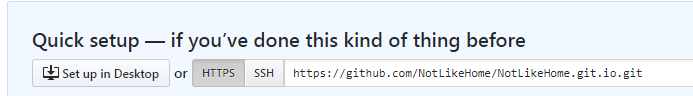
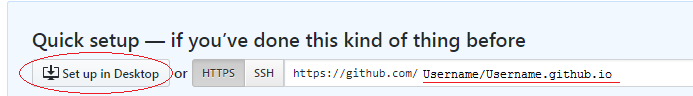
Setup updates

diff --git a/DevSetup2.html b/DevSetup2.html
@@ -6,26 +6,29 @@
      
 </head>
 <body>
-       <object name="Top" type="text/html" data="Nav.html" style="width: 100%"></object>
+    <object name="Top" type="text/html" data="Nav.html" style="width: 100%"></object>
     <h1 style='margin: 25px;'>Set Up</h1>
+        <div style='margin: 30px;'>
     
-    
-        <p>Next, we'll copy some files "starter" files.  <span class="todo">Add more instructions</span></p>
-    <p>Let's edit your home page, called <strong>Index.html</strong>.
-    <div > <img src="code1.png" /></div>
-    <div><br/>Change the green text inside the header to whatever you like, then save the file.<br/><br/></div>
-    <div>In Komodo, you can preview your file by clicking the Preview icon [add image]</div>
-    <div><p>Now, let's switch over to the Git Desktop and publish your web page to the internet:</p>
-        <ul>
-            <li>Enter a 'Summary' for your change, such as "Header text added"</li>
-            <li>Click Commit to master [add pic]</li>
-            <li>Click Push origin [add pic]</li>
-        </ul>
-    </div>
-    <div><p>Give it a minute, and...your page is now out there on the web!</p></div>
-    <div><br/><br/><a href='Dev0.html'>Next: Let's add some fields</a></div>
-    
-    
+            <p>10.  Next, we'll copy some files "starter" files.  <span class="todo">For now, please copy the
+            files I sent you in email into the folder that your repository is pointing at.</span></p>
+            <p>11.  Now, let's open Komodo Edit.  There should be an icon on your desktop.  We'll use this as a handy
+            editor, but you could use any editor.</p>
+            <p>12.  Let's edit your home page, called <strong>Index.html</strong>.  Open the file in Komodo.
+            <div > <img src="code1.png" /></div>
+            <div><br/>13.  Change the green text inside the header to whatever you like, then save the file.<br/><br/></div>
+            <div>14.  In Komodo, you can preview your file by clicking the Preview icon [add image]</div>
+            <div><p>15.  Now, let's switch over to the GitHub Desktop and publish your web page to the internet:</p>
+                <ul>
+                    <li>Enter a 'Summary' for your change, such as "Header text added"</li>
+                    <li>Click Commit to master [add pic]</li>
+                    <li>Click Push origin [add pic]</li>
+                </ul>
+            </div>
+            <div><p>Give it a minute, and...your page is now out there on the web!</p></div>
+            <div><br/><br/><a href='DevSetUp.html'>Previous: Set up our Account</a></div>
+            
+
     
     
     

diff --git a/DevSetUp.html b/DevSetUp.html
@@ -8,7 +8,8 @@
 <body>
        <object name="Top" type="text/html" data="Nav.html" style="width: 100%"></object>
     <h1 style='margin: 25px;'>Set Up</h1>
-    <div style='margin: 25px;'>
+    <div style='margin: 30px;'>
+    <p>We'll be using two tools that are already loaded on your laptop: GitHub Desktop, and Komodo Edit.  </p>
     <p>First, we'll create an account with GitHub.  (Unless you already have one.)  Note: you will need
         an email address that you can access to confirm your account.)
        Git is a cloud repository for you code, that will also let you publish a simple website for free.</p>
@@ -24,29 +25,22 @@
         that GitHub sends you.</p>
     <p>5.  Now that we have an account, we'll need to set it up.  Go to GitHub.com, and sign in.
     </p>
-    <p>6.  On the left side is a menu.  We want the item 'Repositories'. [highlight link in pic]  </p>
+    <p>6.  On the left side is a menu.  We want the item 'Repositories'.  </p>
     <img src='images/Repositories.png' alt='Menu' />
     <p>7.  Click 'create one' to create a new repository.</p>
     <img src="NoRepositories.png" />
     <p>8.  We're going to use the Quick setup.  But here's the IMPORTANT part: you want the URL to be exactly
-    your username.git.io.git
-    Then click the button to 'Set up in Desktop'. [highlight button in pic]</p>
+    your username.github.io   
+    Then click the button to 'Set up in Desktop'. </p>
     <img src="QuickSetup.png" />
     <p>9.  That should have opened an application called GitHub Desktop.  </p>
     <p>Wow, that was a lot to set up.  But now, we can have some fun.</p>
-    <p><a href='DevSetUp2.html'>Next</a></p>
+    <p class="todo">Did this work?  Because originally I had to download Git, but that's because I set things up
+     before GitHub Desktop, so I'm hoping GitHub Desktop takes care of this.  Also, did it ask where on
+     the harddrive to point to?  </p>
+    <p><a href='DevSetUp2.html'>Next: Let's add some files</a></p>
     
-    <p style='color:DarkRed;'>
-        Ravi, 
-    </p>
-    
-    
-    
-    
-    
-    
-    
-    
+
     
     
     
@@ -55,8 +49,9 @@
     
     </div>
     
-   <!-- <p class="todo">Add additional instructions to do this from home, since they won't have
-    the Git, Git Desktop, and Komodo software pre-loaded.</p>
-    -->
+ <p class="todo" style="margin-top: 25px;">To Do: Add additional instructions to do this from home, since they won't have
+    the Git, Git Desktop, and Komodo software pre-loaded.  Use some cool number icons for the steps, and center this text
+    on the page.</p>
+
 </body>
 </html>
